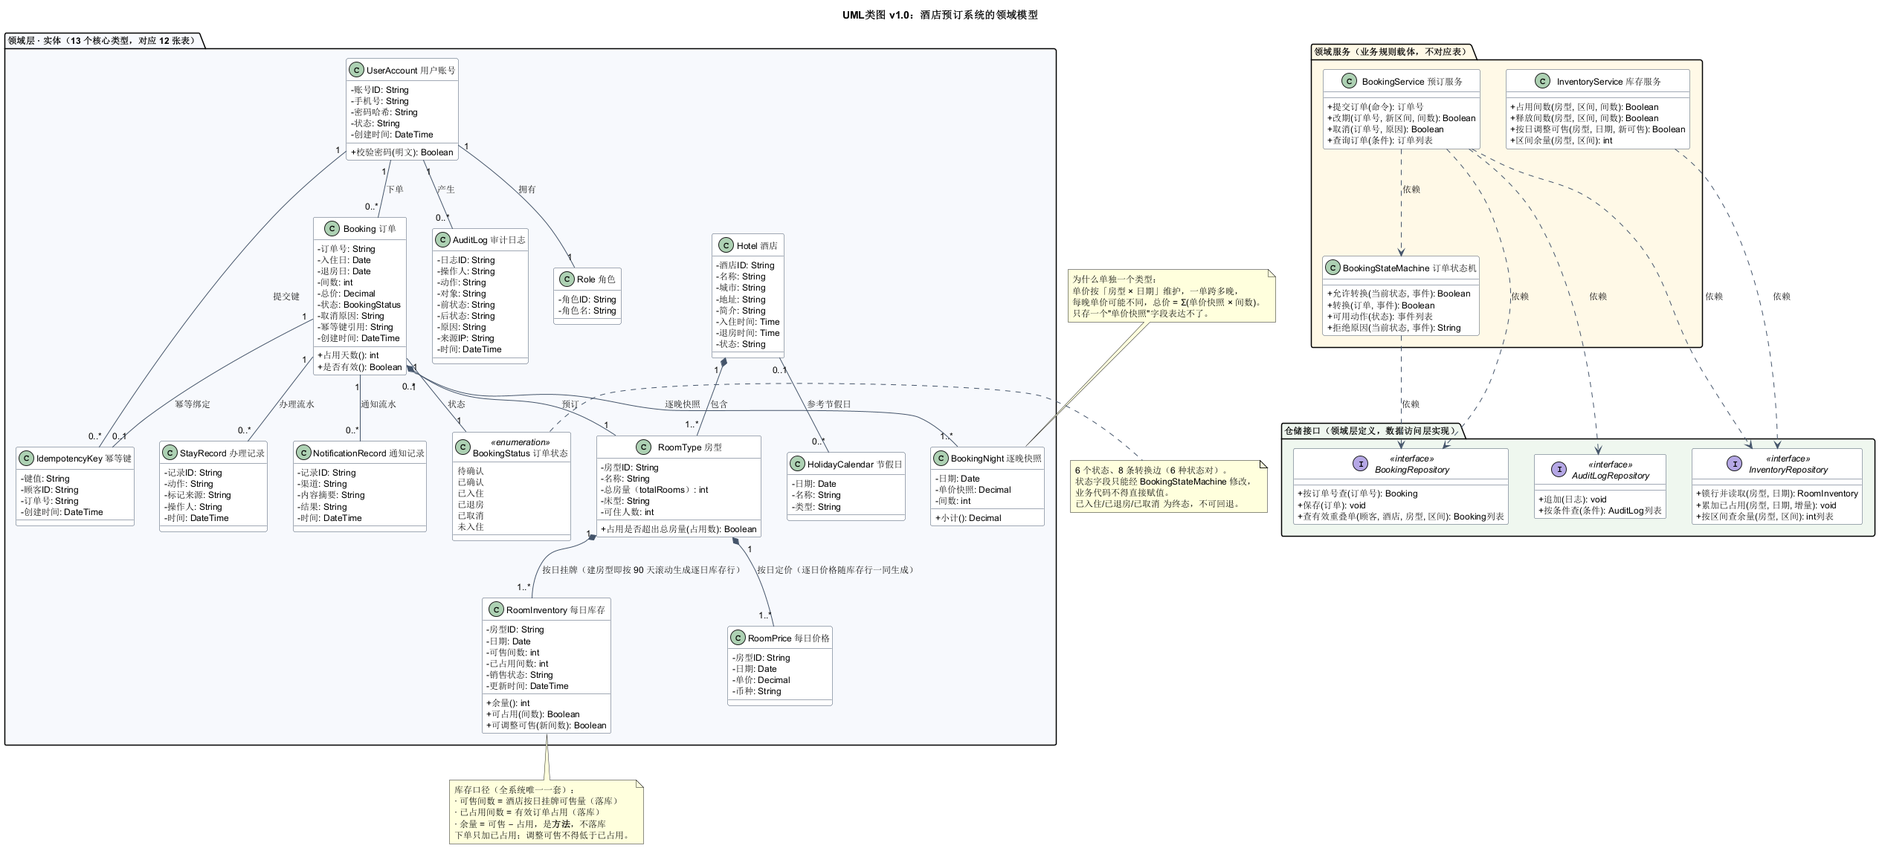
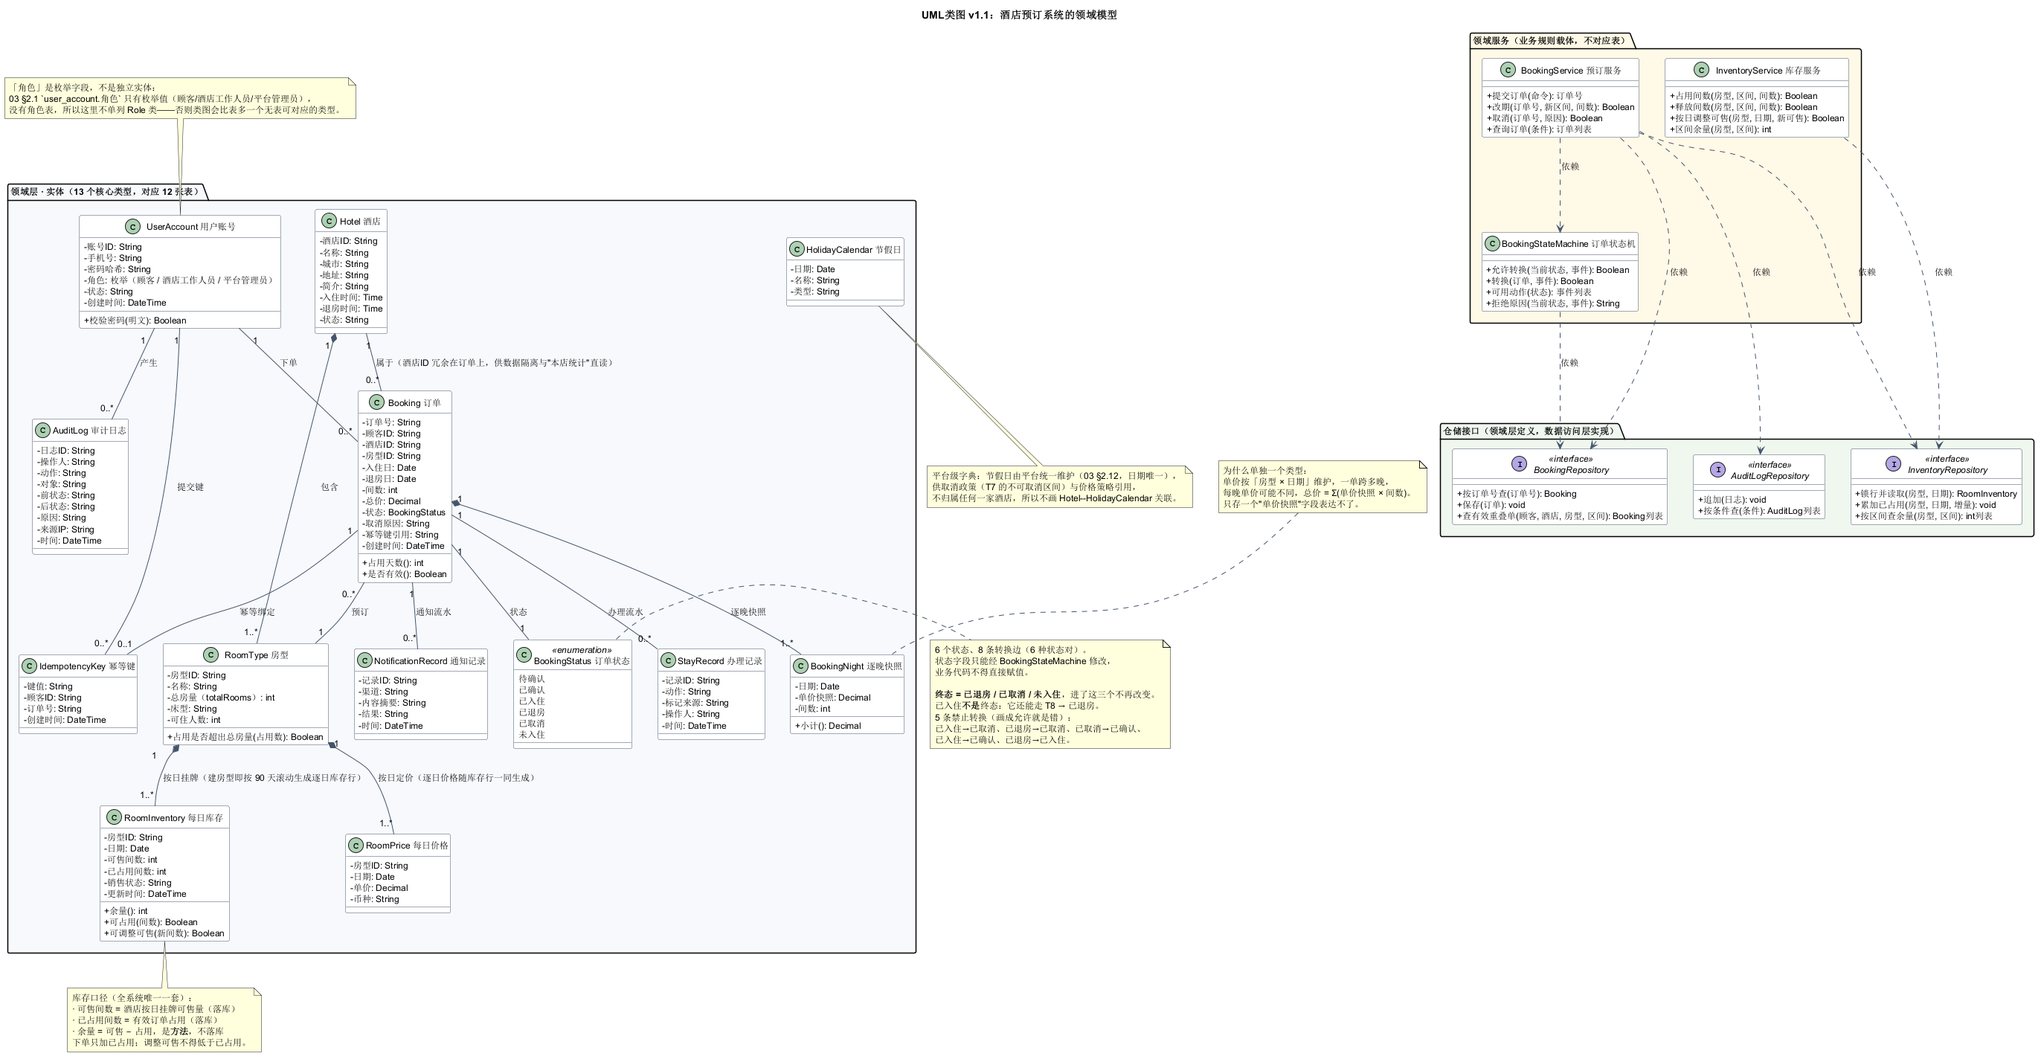
[S2-fix] 结构图返工：角色改枚举字段、补 Booking—Hotel、改正终态注释（29/29 PASS）
按评审报告_S1_S2 的 3 项中级 + 4 项低级逐条改：

R2-01 删掉独立的 Role 类（它没有对应表，会让类图 14 个类型 ≠ 口径卡 13），
      角色改为 UserAccount 的枚举字段，并加注说明「没有角色表」。
R2-02 Booking 补 酒店ID 字段与 Booking—Hotel「属于」关联——REQ-001/015/016/020
      的数据隔离与按店统计都要靠它，原来只能从 RoomType 两跳推。
R2-03 终态注释改正：终态=已退房/已取消/未入住，已入住仍可走 T8→已退房，
      并把 5 条禁止转换列成一句，避免 S3 状态图继承错误。
R2-04 节假日改为平台级字典，去掉 Hotel—HolidayCalendar 归属边。
R2-05 M8 补 I21 趋势与导出（原来只有 1 个接口）。
R2-06 类图版本号统一 v1.1（title 与首行注释曾不一致）。
R2-07 组件图加注「10 个业务组件 + 2 个支撑件」，供报告 3.3 引用。

同时按评审的脚本意见加固 check.py（原"每组件接口≥2"数的是全文 | 次数）：
实体包恰好 13 个 class、不得有 Role 类、Booking.酒店ID、Booking—Hotel 边、
终态注释正确性、M1–M10 逐组件接口数。4 个负向用例全部被抓。

验收：--stage 2 = 29/29 PASS；--stage 1 回归 50/50 PASS。

diff --git a/exp2/验收/check.py b/exp2/验收/check.py
@@ -344,7 +344,7 @@ def s1_banned() -> None:
         targets += sorted(exp_dir.glob("*.md")) + sorted(exp_dir.glob("*.py"))
     # 白名单：外部评审材料按"原样归档"保留，其引述旧口径属正常（不得改写评审方原文）；
     # 以及任何标注了"禁用词/旧口径/勘误"的行，属于讨论该词本身。
-    external = {"评审报告_S0_S1.md", "评审报告_S0_S1_复验.md", "返工单_R-01.md"}
+    external = {"评审报告_S0_S1.md", "评审报告_S0_S1_复验.md", "评审报告_S1_S2.md", "返工单_R-01.md"}
     exempt_line = re.compile(r"禁用词|旧口径|勘误|口径变更|引述")
     hits = []
     scanned = 0
@@ -401,9 +401,9 @@ def need_pair(stem: str, png_min: int = 20000) -> list[str]:
     return bad
 
 
-def class_body(text: str, alias: str) -> str:
-    """取出 `class "标签" as <alias> { ... }` 的花括号内正文（用于核对属性清单）。"""
-    m = re.search(r"^\s*(?:class|interface)\s+[^\n]*\bas\s+" + re.escape(alias) + r"\b[^\n]*\{", text, re.M)
+def class_body(text: str, alias: str, kinds: str = "class|interface") -> str:
+    """取出 `<kinds> "标签" as <alias> { ... }` 的花括号内正文（用于核对属性清单、逐组件接口数）。"""
+    m = re.search(r"^\s*(?:" + kinds + r")\s+[^\n]*\bas\s+" + re.escape(alias) + r"\b[^\n]*\{", text, re.M)
     if not m:
         return ""
     start = m.end()
@@ -449,6 +449,31 @@ def s2_struct() -> None:
                f"缺 {[s for s in ('BookingService','InventoryService','BookingStateMachine') if s not in t]}")
         record(stage, "类图有组合关系（Booking *-- BookingNight）",
                bool(re.search(r"\*\s*--", t)), "无组合关系")
+
+        # 评审 R2-01：实体包里必须恰好 13 个 class（12 张表 + BookingStatus 枚举），
+        # 多一个（例如把「角色」画成独立类）就会与口径卡的"13 个核心类型"打架
+        ent = class_body(t, "L0", kinds="package")
+        ent_body = ent or t.split("package \"领域服务")[0]
+        n_ent = len(re.findall(r"^\s*class\s+", ent_body, re.M))
+        record(stage, f"实体包恰好 {EXPECT['class_types']} 个 class（不含领域服务）",
+               n_ent == EXPECT["class_types"], f"实际 {n_ent}")
+        record(stage, "实体包没有独立的『Role 角色』类（角色是枚举字段，没有角色表）",
+               "Role 角色" not in ent_body, "仍画了 Role 类，13 会变 14")
+
+        # 评审 R2-02：订单必须能直读所属酒店（REQ-001/015/016/020 的隔离与统计都靠它）
+        bk = class_body(t, "Booking")
+        record(stage, "Booking 有『酒店ID』字段（隔离与按店统计直读）", "酒店ID" in bk, "缺 酒店ID")
+        record(stage, "类图有 Booking—Hotel 关联",
+               bool(re.search(r'Booking\s+"[^"]*"\s*(?:--|\*--)\s*"[^"]*"\s*Hotel', t))
+               or bool(re.search(r'Hotel\s+"[^"]*"\s*(?:--|\*--)\s*"[^"]*"\s*Booking', t)),
+               "没有 Booking—Hotel 关联")
+
+        # 评审 R2-03：终态注释不能说"已入住是终态"（T8 已入住→已退房 合法）
+        m_note = re.search(r"note[^\n]*BookingStatus[\s\S]{0,600}?end note", t)
+        note = m_note.group(0) if m_note else ""
+        term_ok = ("未入住" in note and "已退房" in note and "已入住**不是**终态" in note)
+        record(stage, "状态机注释写明终态 = 已退房/已取消/未入住，且已入住不是终态", term_ok,
+               "" if term_ok else f"注释片段：{note[:120]}")
     p = UML_DIR / "UML包图.puml"
     if p.exists():
         t = read(p)
@@ -471,7 +496,15 @@ def s2_struct() -> None:
         ncomp = len(re.findall(r"component\s+", t)) or len(comps)
         record(stage, "组件图组件 = 10（M1–M10）", ncomp >= 10, f"实际 {ncomp}")
         iface = len(re.findall(r"interface\s+|\[[^\]]+\]", t))
-        record(stage, "每组件接口 ≥ 2（合计 ≥ 20 处接口）", iface >= 20, f"实际 {iface}")
+        record(stage, "接口总数 ≥ 20", iface >= 20, f"实际 {iface}")
+        # 逐组件计数：M1–M10 每个 component 块内必须 ≥ 2 个 interface
+        per = {}
+        for i in range(1, 11):
+            body = class_body(t, f"M{i}", kinds="component")
+            per[f"M{i}"] = len(re.findall(r"^\s*interface\s+", body, re.M))
+        thin = {k: v for k, v in per.items() if v < 2}
+        record(stage, "M1–M10 每个业务组件对外接口 ≥ 2 个（逐组件计数）", not thin,
+               f"接口不足的组件：{thin}")
         kinds = [k for k in ("同步", "异步", "定时") if k in t]
         record(stage, "组件图区分同步/异步/定时三类连接", len(kinds) == 3, f"只写了 {kinds}")
     # 三张图首行必须有图名 + 版本（阶段卡"S2 产出"要求）

diff --git a/exp2/验收/评审报告_S1_S2.md b/exp2/验收/评审报告_S1_S2.md
@@ -1,0 +1,109 @@
+# 评审报告 · S1（复验）/ S2
+
+> 评审人：验收方 日期：2026-11-12
+> 评审对象：HEAD `1d48c09`；快照 `stage-1b`（S1 返工）、`stage-1c`（S2 开工门禁）、`stage-2`（S2 结构图）
+> 依据：手册 15 条硬指标 > `exp1/requirements.md` 27 条 > 口径卡
+> 方法：L0 事实 → L1 机械（脚本只作证据）→ L2 业务（逐图逐行人工核）
+
+---
+
+## 结论卡
+
+| 阶段 | 判定 | 一句话 |
+|---|---|---|
+| **S1（复验）** | **通过** | A1–A11 全部满足；返工质量高于返工单要求，且纠正了我返工单里一处不严谨 |
+| **S2 结构图** | **返工（3 项中级 + 4 项低级）** | 三张图能看、能讲、多重度齐全；但类图有 3 处业务语义/口径错误，其中"核心类型 14≠13"会直接与口径卡冲突，必须在 S3 前改 |
+
+---
+
+## 一、S1 复验（按返工单 A1–A11 逐条）
+
+| # | 检查点 | 实测证据 | 判定 |
+|---|---|---|---|
+| A1 | `room_inventory` 含"已占用间数"且注明落库 | 03 §2.4 第 59 行：`已占用间数｜非负整数，**落库**；语义=当日被有效订单占用的间数，恒有 ≤ 可售间数` | PASS |
+| A2 | 余量公式 = 可售 − 占用 | 03 §5 第 181 行公式 + 第 184 行"四条同口径落点" | PASS |
+| A3 | 写明"按日下调可售只减可售、不动占用" | 03 §5 第 186 行单独成段，并点名"这是单一剩余量口径无法表达的路径" | PASS（超出要求：把反例数字也写进去了） |
+| A4 | 对账比对 `已占用` vs Σ订单 | 03 §7 第 211 行，并**额外**写明"对账不比对可售间数，否则维修/封房会产生假告警" | PASS（这是加分项） |
+| A5 | 减房判据 = `N′ ≥ 已占用间数` | 03 §5 第 188 行：判据 + 同事务钳制 `min(可售, N′)` + 任一日 `可售<占用` 回滚 | PASS（钳制比"逐日减 N−N′"更稳，不会把可售压成负数） |
+| A6 | 下单/回补的字段操作 | 03 §4 第 164/165 行：下单**只加已占用**、回补**只减已占用**，可售不动 | PASS，**且执行方是对的**：返工单里我写的"可售↓ + 占用↑"沿用了旧"净剩余"语义，在"可售=挂牌量"下会双重扣减。执行方按语义自洽实现，属对我指令的纠正，记为其加分 |
+| A7 | 界面 11 三值且标注性质 | 执行方案 H 节：可售（可编辑）/ 已占用（只读）/ 余量（派生只读、醒目）/ 总房量（只读上界） | PASS |
+| A8 | 类图规格文本同步、类型数仍 13 | E#1 行 13 个类型名逐一可数，`RoomInventory` 三属性 + "余量是方法不是字段" | PASS（S1 层面是"规格文本"，实际图在 S2 判） |
+| A9 | 口径卡库存行已改 | 阶段文档 §0：两个落库事实 + 余量派生 + 区间上限 min，与 03 一字不差 | PASS |
+| A10 | 禁用词零命中 | `check.py --stage 1`：**50/50 PASS**，退出码 0 | PASS |
+| A11 | 提交 `[S1-fix]` + `stage-1b`，改动范围可控 | `stage-1b` = `fb2b1eb`；`stage-1..stage-1b` 累计 8 文件：执行方案/阶段卡/01/02/03/check.py + 2 份过程文档（评审报告与返工单的原样归档） | PASS（过程文档属 `验收/` 留痕，不算口径污染，记低危说明） |
+
+**附带核实（D-02 / D-04）**
+
+| 项 | 实测 |
+|---|---|
+| exp1 是否被动过 | `git log stage-1..HEAD -- exp1/` **为空**；`requirements.md`/`chat.txt` 的 SHA256 仍与 lab1-final 记录值逐字节一致 | 边界已恢复，PASS |
+| 手册是否被改 | `exp2/实验二：软件设计与建模.md` 在 stage-1..HEAD 区间 **零 diff**（11:19 的 mtime 来自 checkout，不是改写） | PASS |
+| 人工提交 | 已有 2 条真实人工修改：`2686e23 [人工] S1 库存口径`（03 §5 第 194 行那段是"我"的口吻，内容与文档其余部分文风不同，可认定为真人写入）、`1d48c09 [人工] S2 类图多重度 0..*→1..*` | D-04 已在推进，继续 |
+
+**S1 判定：通过。** 一条低危记账：`env_selftest.py` 仍未提供 `--out`（返工单 3.6 属可选，尚未完成），不影响 S1。
+
+---
+
+## 二、S2 结构图验收
+
+### 通过项
+
+| 检查点 | 证据 |
+|---|---|
+| 三对文件成对，图名+版本在图内首部 | 6 个文件齐；`title UML类图/包图/组件图 …`；PNG 分别 289/144/110 KB |
+| 类图规模 | `class` 17 条（14 实体 + 3 服务）、`<<interface>>` 3 个、多重度 25 处 |
+| 关系类型用对 | `Hotel *-- RoomType`、`RoomType *-- RoomInventory/RoomPrice`、`Booking *-- BookingNight`、`Booking -- BookingStatus`、`Booking 0..* -- 1 RoomType`、`Booking 1 -- 0..1 IdempotencyKey`、服务 `..> 仓储接口`（依赖，虚线） |
+| 状态机约束写明 | `note right of BookingStatus`：6 状态 8 条边、状态字段只能经 `BookingStateMachine` 修改 |
+| 库存口径写入图内 | `note bottom of RoomInventory`：可售（落库）/ 已占用（落库）/ 余量是方法，下单只加占用 |
+| `booking_night` 有独立理由 | `note top of BookingNight`：跨晚单价不同，单一"单价快照"字段表达不了 |
+| 包图 | 四层 L1–L4 齐；每层 M1–M10 十包；反向箭头恰好 1 条（`IMPL ..|> R1`）；两条跨层例外有注；"为什么只画一条"有解释 |
+| 组件图 | 10 个业务组件 + 入口 + 存储；20 个具名接口；连接线一律带 `[S]/[A]/[T]/[R]`；接口画成球（provided/required 语义可读） |
+| 中文与可读性 | 三张图中文全部正常、无方框、无裁字；线虽多但标签完整 |
+
+### 返工项
+
+**R2-01｜核心类型实为 14 个，与口径卡"13 个"冲突（中级）**
+
+- 证据：`UML类图.puml` 第 27–30 行有独立 `class "Role 角色"`（属性：角色ID、角色名）。包标签却写"13 个核心类型"，包图 L3 也写"13 个核心类型（见 UML类图）"。
+- 冲突三处：①口径卡与 E#1 均写 13；②01 §1 术语表把 `Role` 定义为**枚举**（顾客/酒店工作人员/平台管理员）；③`user_account` 表里只有"角色"枚举字段，**没有角色表**，所以第 14 类无表可对应。
+- 建议（选一，推荐第一）：
+  1. **去掉 `Role` 类**，改为在 `UserAccount` 上标注属性 `- 角色: RoleEnum`，并画一个 `<<enumeration>> RoleEnum`（同 `BookingStatus` 的写法，不计入"实体类型"）；
+  2. 若要保留 `Role` 为实体，则 13→14 连带改 4 处（口径卡 / E#1 / 01 §1 / 包图标签）+ 说明它映射哪张表——代价更大，不推荐。
+- 影响：不改则报告 3.2/4.1 会出现"说 13 画 14"，答辩必被问。
+
+**R2-02｜缺 `Booking`↔`Hotel` 关联（中级）**
+
+- 证据：`UML类图.puml` 第 188–204 行关系段无 `Booking—Hotel`；`Booking` 属性也无"酒店ID"（03 §2.6 表里有该外键）。
+- 为什么是硬伤：M1 的数据隔离（REQ-020 403 不泄露）、M8 的"本店统计"、酒店端订单列表（REQ-015）全部依赖"这张单属于哪家店"。现在只能靠 `Booking→RoomType→Hotel` 两跳推导，图上读不出来，报告 3.3 也没法指着图讲隔离怎么做。
+- 建议：补一条 `Booking "0..*" -- "1" Hotel : 属于`（并给 `Booking` 加 `- 酒店ID: String`），或至少在图上加注"酒店 ID 冗余存于订单，供隔离与统计直读；房型归属由 RoomType 校验一致"。
+- 重要：这条与 REQ-001/015/016/020 直接相关，属**需求落点缺失**，不是审美问题。
+
+**R2-03｜图内注释把"已入住"当成终态（中级）**
+
+- 证据：`note right of BookingStatus` 写"已入住/已退房/已取消 为终态，不可回退"。
+- 事实：按 8 条边，**已入住 → 已退房 是合法转换**（T8），已入住不是终态；真正的终态是 `已退房`、`已取消`、`未入住`。
+- 后果：这句话会被 S3 状态图直接继承（S3 的图就是照这段注释写的），错误会传染两处，且答辩时一问就穿。
+- 建议：改为"终态 = 已退房 / 已取消 / 未入住；已入住仍可转已退房（T8）"，并把 5 条禁止转换列成一句注。
+
+### 低级问题（不阻断，S3 前顺手改）
+
+| # | 问题 | 位置 | 建议 |
+|---|---|---|---|
+| R2-04 | `HolidayCalendar` 挂在 `Hotel` 上（`Hotel "0..1" -- "0..*" HolidayCalendar`） | 类图第 194 行 | 节假日在 01/03 里是**平台统一维护**、被取消政策引用，不是酒店私有。改为由 M7/取消政策引用（或注"平台级字典，与酒店无归属关系"） |
+| R2-05 | `M8 报表统计` 只有 1 个接口（I15），与"每组件 ≥2 接口"的自定规格不符 | 组件图第 51–53 行 | 补一个 `I21 趋势/导出`，或改规格为"业务组件平均 ≥2" |
+| R2-06 | 图内版本号不一致：`title` 写 v1.0，首行注释写 v1.1 | 类图第 2/4 行 | 统一为 v1.1（人工改过多重度，本就该是 v1.1） |
+| R2-07 | 组件图把"页面入口""数据存储"也画成组件，实际 12 个组件 ≠ 口径 10 | 组件图第 13/65 行 | 图本身没问题（入口与存储是支撑件），但报告 3.3 须注明"10 个业务组件 + 2 个支撑件"，否则与口径卡对不上 |
+
+**另记一条脚本缺陷（D 类）**：`check.py` 的"每组件接口 ≥ 2"判定为 48 次通过，说明它统计的是文本里 `interface` 出现次数，并非逐组件计数——**R2-05 因此没被抓到**。建议改为按 `component ... { }` 块内 `interface` 计数。同理"多重度 ≥ 6 / class ≥ 13"都是宽松阈值，抓不到 R2-01 这种"多了 1 个类型"。
+
+---
+
+## 三、判定与下一步
+
+- **S1：通过**（可锁死，不再复验）。
+- **S2：返工 3 项中级**（R2-01/02/03），低 4 项顺手改。**S3 不得开工**，因为 R2-03 的错误注释会被状态图继承。
+- 返工量估计：R2-01 改 1 处（+ 2 处标签）、R2-02 补 1 条边 + 1 个属性、R2-03 改 1 段注；低 4 项各 1 处。**合计约 30–40 分钟**，重渲染 3 张图 30 秒。
+- 复验只需看：①`class` 计数与 3 处"13"是否自洽；②`Booking—Hotel` 边存在且属性有 `酒店ID`；③终态注释正确；④3 张 PNG 重渲染后仍无方框、无裁字。
+- 提交 `[S2-fix]` + 标签 `stage-2b`，复验通过即解锁 S3。
+
+**时间提醒**：现为 11-12，距 11-14 00:00 约 28 小时；S3/S4/S5/S6/S7/S8/S9 尚未开工，报告与 17 张界面是最大头。S2 返工若超过 1 小时，建议直接砍掉可选图 2 张与可选界面 3 张，把时间让给报告。

diff --git a/exp2/实验二_阶段与验收.md b/exp2/实验二_阶段与验收.md
@@ -142,7 +142,7 @@
 | S0 | **通过** | `D:\softeng-env\` 工具链（JRE 21.0.13+9、PlantUML 1.2026.9、Graphviz 16.1.1、venv）；`验收/env_selftest.py` | 17/17 PASS；复验实测中文类图 704×343、1.38s 无方框（2026-11-12） |
 | S1 | **通过（stage-1b）** | 三份基线定稿、`验收/check.py`、口径卡冻结；R-01 已修（可售=挂牌量、已占用落库、余量=可售−占用）；复验 D-11/门禁项见下 | `check.py --stage 1` = 43/43 PASS（`stage-1b` = `fb2b1eb`）；复验 2026-11-12，**红线 0 命中** |
 | S2 开工门禁 | **完成** | E-01 勘误横幅、R-02 `puml.cmd` 重写（CRLF + ASCII 注释，stderr 干净、1.52s）、R-03 03 §9 唯一约束清单、T-08 T5/T6 时间点、D-05/D-06 标签与登记、D-09 M3 补接口、D-11 禁用词扫描扩面 | `check.py --stage 1` = 50/50 PASS；标签 `stage-1c` |
-| S2 | **完成（stage-2）** | 三张结构图：`UML/UML类图.puml`（13 类型 + 3 服务 + 3 仓储接口，2535×1149）、`UML/UML包图.puml`（四层 + M1–M10 + 唯一一条依赖倒置实现箭头，2091×2134）、`UML/UML组件图.puml`（10 组件 + 20 个具名接口 + S/A/T/R 联接，2335×1070） | `check.py --stage 2` = 23/23 PASS；标签 `stage-2` |
+| S2 | **完成（stage-2b）** | 三张结构图：`UML/UML类图.puml`（13 类型 + 3 服务 + 3 仓储接口，2748×1428）、`UML/UML包图.puml`（四层 + M1–M10 + 唯一一条依赖倒置实现箭头，2091×2134）、`UML/UML组件图.puml`（10 组件 + 21 个具名接口 + S/A/T/R 联接，1972×1070） | `check.py --stage 2` = 29/29 PASS；标签 `stage-2b`（`stage-2` 保留不改） |
 | S3–S9 | 未开始 | — | — |
 
 ### 5.1 标签与提交对照（复验 D-05：标签必须能对上提交号）
@@ -154,7 +154,8 @@
 | `stage-1` | `65ce1de` | S1 首版（37/37，后被 R-01 推翻） |
 | `stage-1b` | `fb2b1eb` | S1 返工完成（43/43），复验通过的那一版 |
 | `stage-1c` | 见 `git show stage-1c --stat` | S2 开工门禁清理完成（50/50） |
-| `stage-2` | 见 `git show stage-2 --stat` | S2 结构图三张（类图/包图/组件图），23/23 |
+| `stage-2` | `c6d27d8` | S2 结构图三张首版（23/23），评审判返工 3 项中级 |
+| `stage-2b` | 见 `git show stage-2b --stat` | S2 返工：R2-01 角色改枚举字段、R2-02 补 Booking—Hotel、R2-03 终态注释改正 + 4 项低级（29/29） |
 
 > 规则：标签只增不改。若某标签所指版本被后续检查证明不合格，**不移动旧标签**，而是新开 `stage-Nx` 标注新的合格版本，并在上表追加一行——移动已推送的标签会让评审拿到的提交号和报告里写的对不上。
 

diff --git a/exp2/实验二_执行方案.md b/exp2/实验二_执行方案.md
@@ -417,4 +417,5 @@ exp2/
 | 2026-11-11 | **S1 基线冻结**：三份基线定稿 + `验收/check.py`（37 项 PASS/0 FAIL）+ 口径卡定版；补掉 REQ-018→M10、UML 组数 13→9 等残留 | 提交 `65ce1de`，标签 `stage-1` |
 | 2026-11-12 | **S1 返工（R-01）**：库存口径改为「可售间数=酒店挂牌量、已占用间数落库、余量=可售−占用、下单只改占用」；03 §5 整节重写、02 M3 接口与三条链路、01 术语表、本方案 C/D/F/H/N 节同步；check.py 增 3 项 + 2 个禁用词并修 3 处偏松 | 提交 `[S1-fix]`，标签 `stage-1b`，复验 A1–A11 |
 | 2026-11-12 | **S2 结构图**：类图（13 类型 + 3 服务 + 3 仓储接口）、包图（四层 + M1–M10 + 唯一一条依赖倒置箭头）、组件图（10 组件 + 20 接口 + S/A/T/R）；`验收/check.py` 的 S2 判据按阶段卡补实（`class_body()`、RoomInventory 反推字段检查） | `check.py --stage 2` = 23/23 PASS；标签 `stage-2` |
+| 2026-11-12 | **S2 返工**（评审判 3 项中级 + 4 项低级）：R2-01 删掉独立 `Role` 类、角色改为 `UserAccount.角色` 枚举字段（13 个类型回到 12 表 + BookingStatus 自洽）；R2-02 补 `Booking.酒店ID` 与 `Booking—Hotel 属于`；R2-03 终态注释改为"已退房/已取消/未入住，已入住仍可走 T8"；R2-04 节假日改为平台级字典（去掉 Hotel 归属）；R2-05 补 `I21 趋势与导出`；R2-06 版本统一 v1.1；R2-07 组件图加注"10 业务组件 + 2 支撑件"；`check.py` 增 6 项（实体包恰好 13、无 Role 类、Booking.酒店ID、Booking—Hotel 边、终态注释、逐组件接口数） | `check.py --stage 2` = 29/29 PASS；标签 `stage-2b`；4 个负向用例全部被抓 |
 | 待办 | S3–S9：行为图 → 交互图 → UI → 报告 → AI 章节 → 打包 | 见 `实验二_阶段与验收.md` |
